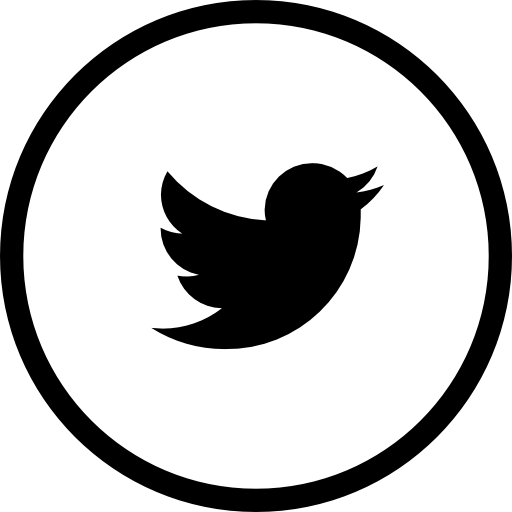
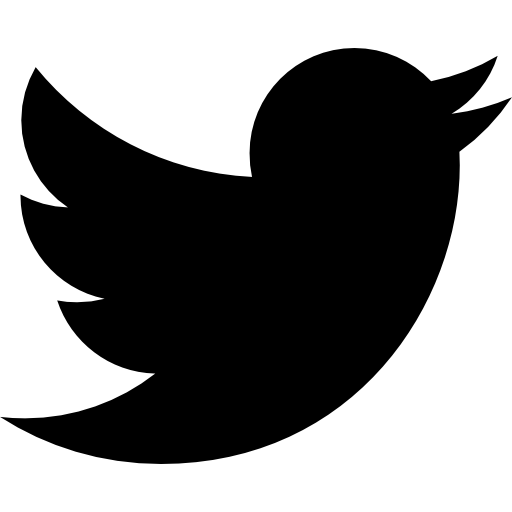
Actualizacion assets y estilos

diff --git a/css/main.css b/css/main.css
@@ -4,11 +4,12 @@
   box-sizing: border-box;
 }
 body {
-  position: fixed;
-  top: 0;
-  bottom: 0;
-  left: 0;
-  right: 0;
+  width: 100%;
+  height: 100vh;
+  background-image: url(../assets/background.jpg);
+  background-position: center;
+  background-repeat: no-repeat;
+  background-size: cover;
 }
 li {
   display: inline;
@@ -24,11 +25,11 @@ header {
   grid-template-rows: 1fr 1fr;
 }
 
-.social-media {
+.social-media { 
   width: 100%;
-  height: 50px;
+  height: 64px;
   display: grid;
-  background-color: #2192FF;
+  background-color: #001120cc;
 
 }
 .social-media-icons {
@@ -42,21 +43,158 @@ header {
   margin: 0 8px;
 }
 
-.social-media__whatsapp {
+
+.social-media__linkedin {
   display: inline-block;
-  width: 35px;
-  height: 35px;
-  background-image: url('/assets/twitter.png');
-  background-size: cover;
-  background-color: aliceblue;
+  width: 40px;
+  height: 40px;
+  background-image: url(../assets/linkedin.png);
+  background-size: 22px;
+  background-repeat: no-repeat;
+  background-position: center;
+  background-color: white;
+  border: 2px solid black;
+  border-radius: 50%;
+}
+.social-media__twitter {
+  display: inline-block;
+  width: 40px;
+  height: 40px;
+  background-image: url(../assets/twitter.png);
+  background-size: 24px;
+  background-repeat: no-repeat;
+  background-position: center;
+  background-color: white;
+  border: 2px solid black;
   border-radius: 50%;
 }
 
-
-.logo {
-
+.social-media__instagram {
+  display: inline-block;
+  width: 40px;
+  height: 40px;
+  background-image: url(../assets/instagram.png);
+  background-size: cover;
+  background-size: 22px;
+  background-repeat: no-repeat;
+  background-position: center;
+  background-color: white;
+  border: 2px solid black;
+  border-radius: 50%;
+}
+.social-media__tiktok {
+  display: inline-block;
+  width: 40px;
+  height: 40px;
+  background-image: url(../assets/tiktok.png);
+  padding: 8px;
+  background-size: 24px;
+  background-repeat: no-repeat;
+  background-position: center;
+  background-color: aliceblue;
+  border: 2px solid black;
+  border-radius: 50%;
 }
 
+.social-media__github {
+  display: inline-block;
+  width: 40px;
+  height: 40px;
+  background-image: url(../assets/github.png);
+  background-size: cover;
+  background-size: 28px;
+  background-repeat: no-repeat;
+  background-position:bottom;
+  background-color: white;
+  border: 2px solid black;
+  border-radius: 50%;
+}
+.social-media__whatsapp {
+  display: inline-block;
+  width: 40px;
+  height: 40px;
+  background-image: url(../assets/whatsapp.png);
+  background-size: cover;
+  background-size: 30px;
+  background-repeat: no-repeat;
+  background-position: center;
+  background-color: white;
+  border: 2px solid black;
+  border-radius: 50%;
+}
+
+/* Header Inferior */
+
+
+
+.header-button {
+  display: flex;
+  justify-content: space-between;
+}
+.logo-header {
+  display: inline-block;
+  width: 80px;
+  height: 80px;
+  border-radius: 80px;
+  background-size: 100px;
+  background-image: url(../assets/logo.png);
+  background-size: 70px;
+  background-repeat: no-repeat;
+  background-position: center;
+  /* border-radius: 50%; */
+  margin: 0 18px;
+}
 .about-me {
   text-decoration: underline 2px;
+  margin: 0 18px;
+  font-size: x-large;
+  font-family: 'Noto Sans Mono', monospace;
+  font-weight: 700;
+  margin-right: 36px;
+  align-self: center;
+  
+}
+.about-me a {
+  color: #001120;
+}
+.logo {
+  display: flex;
+  align-items: center;
+  color: #001120;
+  font-size: x-large;
+  font-family: 'Noto Sans Mono', monospace;
+}
+.my-logo {
+  color: #001120;
+  font-weight: 700;
+  font-size: x-large;
+  font-family: 'Noto Sans Mono', monospace;
+}
+main {
+  width: 100%;
+  height: 80%;
+  display: grid;
+  grid-template-columns: 1fr;
+  grid-template-rows: 3fr 3fr 1fr 1fr;
+  justify-items: center;
+  align-items: center;
+  
+  
+}
+.titulo {
+  max-width: 60%;
+  color: #001120cc;
+  font-size: 2.8rem;
+  font-family: 'Noto Sans Mono', monospace;
+  text-align: center;
+}
+.button {
+  font-size: 1.5rem;
+  font-family: 'Noto Sans Mono', monospace;
+  border: 2px solid white;
+  background-color: #001120cc;
+  color: white;
+  padding: .5rem;
+  width: 180px;
+  text-align: center;
 }

diff --git a/index.html b/index.html
@@ -4,6 +4,9 @@
   <meta charset="UTF-8">
   <meta http-equiv="X-UA-Compatible" content="IE=edge">
   <meta name="viewport" content="width=device-width, initial-scale=1.0">
+  <link rel="preconnect" href="https://fonts.googleapis.com">
+  <link rel="preconnect" href="https://fonts.gstatic.com" crossorigin>
+  <link href="https://fonts.googleapis.com/css2?family=Noto+Sans+Mono:wght@300;400;500;600;700;800&display=swap" rel="stylesheet">
   <link rel="stylesheet" href="./css/main.css">
   <title>Mi blog</title>
 </head>
@@ -11,24 +14,28 @@
   <header>
     <nav class="social-media">
       <ul class='social-media-icons' >
-        <li>
-          <a class="social-media-icon social-media__whatsapp" href="">
-          </a>
-        </li>
-        <li><a class="social-media-icon social-media__linkedin" href="">Linkedin</a></li>
-        <li><a class="social-media-icon social-media__twitter" href="">twitter</a></li>
-        <li><a class="social-media-icon social-media__instagram" href="">instagram</a></li>
-        <li><a class="social-media-icon social-media__tiktok" href="">tiktok</a></li>
+        <li><a class="social-media-icon social-media__linkedin" href=""></a></li>
+        <li><a class="social-media-icon social-media__twitter" href=""></a></li>
+        <li><a class="social-media-icon social-media__instagram" href=""></a></li>
+        <li><a class="social-media-icon social-media__tiktok" href=""></a></li>
+        <li><a class="social-media-icon social-media__github" href=""></a></li>
+        <li><a class="social-media-icon social-media__whatsapp" href=""></a></li>
+
       </ul>
     </nav>
-    <nav>
+    <nav class="header-button">
       <section class="logo">
-        <a href=""><img src="" alt="logo-mi-perfil"></a>
+        <a class="logo-header" href=""> </a>
+        <p class="my-logo">Mi blog</p>
       </section>
       <section class="about-me">
         <a href="./perfil.html">Sobre mí</a>
       </section>
     </nav>
   </header>
+  <main>
+    <h1 class="titulo">Conoce las novedades y últimas noticias del mundo</h1>
+    <a class="button" href="./blog.html">Entra ya!</a>
+  </main>
 </body>
 </html>
